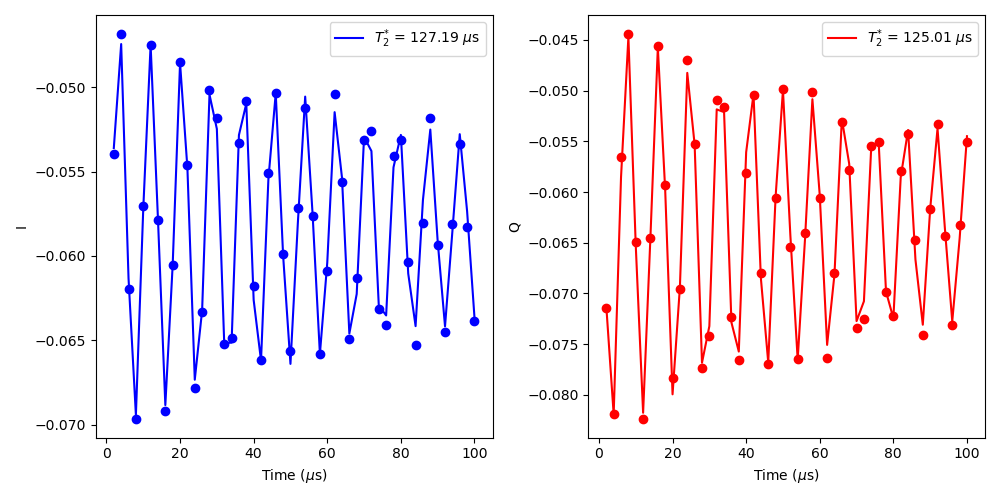
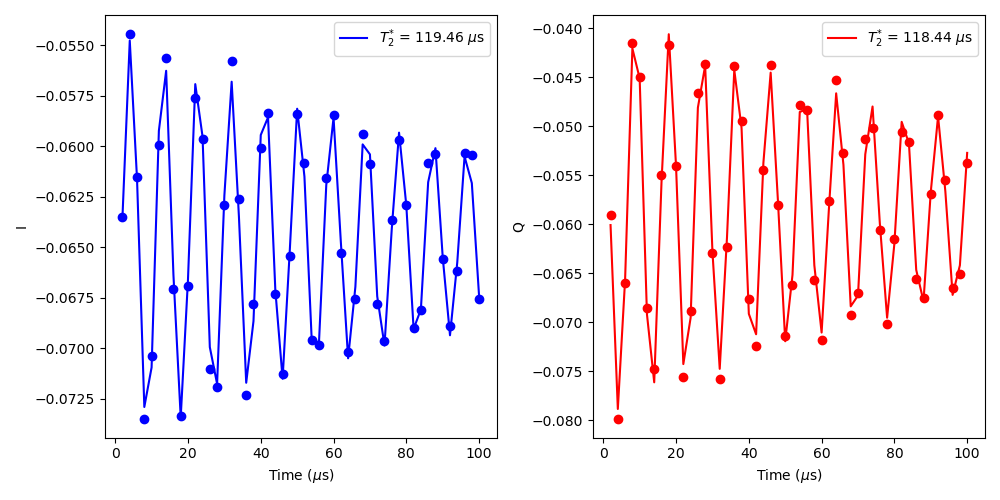
Updating the qubit experiment plots

diff --git a/experiments/qm_opx/ge_t1_iq.py b/experiments/qm_opx/ge_t1_iq.py
@@ -15,11 +15,12 @@ from slab.dsfit import*
 ##################
 # T1:
 ##################
-qubit_freq = 4.748488058227563e9
+qubit_freq = 4.7484880581094515e9
 ge_IF = 100e6
 qubit_LO = qubit_freq - ge_IF
 rr_IF = 100e6
-rr_LO = 8.0518e9 - rr_IF
+rr_freq = 8.0518e9
+rr_LO = rr_freq - rr_IF
 
 LO_q.set_frequency(qubit_LO)
 LO_q.set_ext_pulse(mod = False)
@@ -35,7 +36,7 @@ times = np.arange(T_min, T_max + dt/2, dt)
 
 avgs = 1000
 reset_time = 500000
-simulation = 0 # 1 to simulate the pulses
+simulation = 0# 1 to simulate the pulses
 
 with program() as ge_t1:
 
@@ -58,8 +59,8 @@ with program() as ge_t1:
     ###############
     # the sequence:
     ###############
-    update_frequency("qubit", ge_IF)
-    update_frequency("rr", rr_IF)
+    # update_frequency("qubit", ge_IF)
+    # update_frequency("rr", rr_IF)
 
     with for_(n, 0, n < avgs, n + 1):
         with for_(t, T_min, t < T_max + dt/2, t + dt):

diff --git a/experiments/qm_opx/histogram_iq_freq_sweep.py b/experiments/qm_opx/histogram_iq_freq_sweep.py
@@ -12,7 +12,7 @@ from slab.instruments import instrumentmanager
 im = InstrumentManager()
 LO_q = im['RF5']
 LO_r = im['RF8']
-atten = im["atten"]
+# atten = im["atten"]
 
 from slab.dsfit import*
 
@@ -64,8 +64,8 @@ def hist(p):
 qubit_freq = 4.748488058227563e9
 ge_IF = 100e6
 qubit_LO = qubit_freq - ge_IF
-# rr_freq = 8.05175e9
-rr_freq = 0.5*(8.05184691 + 8.05148693)*1e9 #between g and e
+rr_freq = 8.0518e9
+# rr_freq = 0.5*(8.05184691 + 8.05148693)*1e9 #between g and e
 rr_IF = 100e6
 rr_LO = rr_freq - rr_IF
 
@@ -82,7 +82,7 @@ simulation = 0
 
 f_min = -0.5e6
 f_max = 0.5e6
-df = 0.05e6
+df = 0.01e6
 f_vec = np.arange(f_min, f_max + df/2, df)
 
 with program() as histogram:

diff --git a/experiments/qm_opx/resonator_spectroscopy_iq.py b/experiments/qm_opx/resonator_spectroscopy_iq.py
@@ -10,7 +10,7 @@ from slab.dsfit import*
 
 im = InstrumentManager()
 LO_r = im['RF8']
-atten = im["atten"]
+# atten = im["atten"]
 
 rr_IF = 100e6
 rr_freq = 8.0518e9
@@ -25,7 +25,7 @@ LO_r.set_frequency(rr_LO)
 LO_r.set_ext_pulse(mod=True)
 LO_r.set_power(18)
 LO_r.set_output(True)
-atten.set_attenuator(0.0)
+# atten.set_attenuator(0.0)
 time.sleep(1)
 
 avgs = 1000

diff --git a/experiments/qm_opx/configuration_IQ.py b/experiments/qm_opx/configuration_IQ.py
@@ -32,14 +32,14 @@ ef_IF = int(ge_IF - (qubit_freq-qubit_ef_freq))
 qubit_LO = qubit_freq - ge_IF
 
 # rr_freq = 0.5*(8.05184691 + 8.05148693)*1e9 #between g and e
-rr_freq = 8.0516e9
+rr_freq = 8.0518e9
 rr_IF = 100e6
 rr_LO = rr_freq - rr_IF
 rr_amp = 1.0
 
 gauss_len = 32
 pi_len = 32
-pi_amp = 0.4080
+pi_amp = 0.4114
 pi_ef_len = 32
 pi_ef_amp = 0.2842
 

diff --git a/experiments/qm_opx/ge_ramsey_iq.py b/experiments/qm_opx/ge_ramsey_iq.py
@@ -33,8 +33,8 @@ LO_r.set_power(18)
 ramsey_freq = 1e6
 detune_freq = ge_IF + ramsey_freq
 
-dt = 500
-T_max = 25000
+dt = 250
+T_max = 10000
 times = np.arange(0, T_max + dt/2, dt)
 avgs = 1000
 reset_time = 500000
